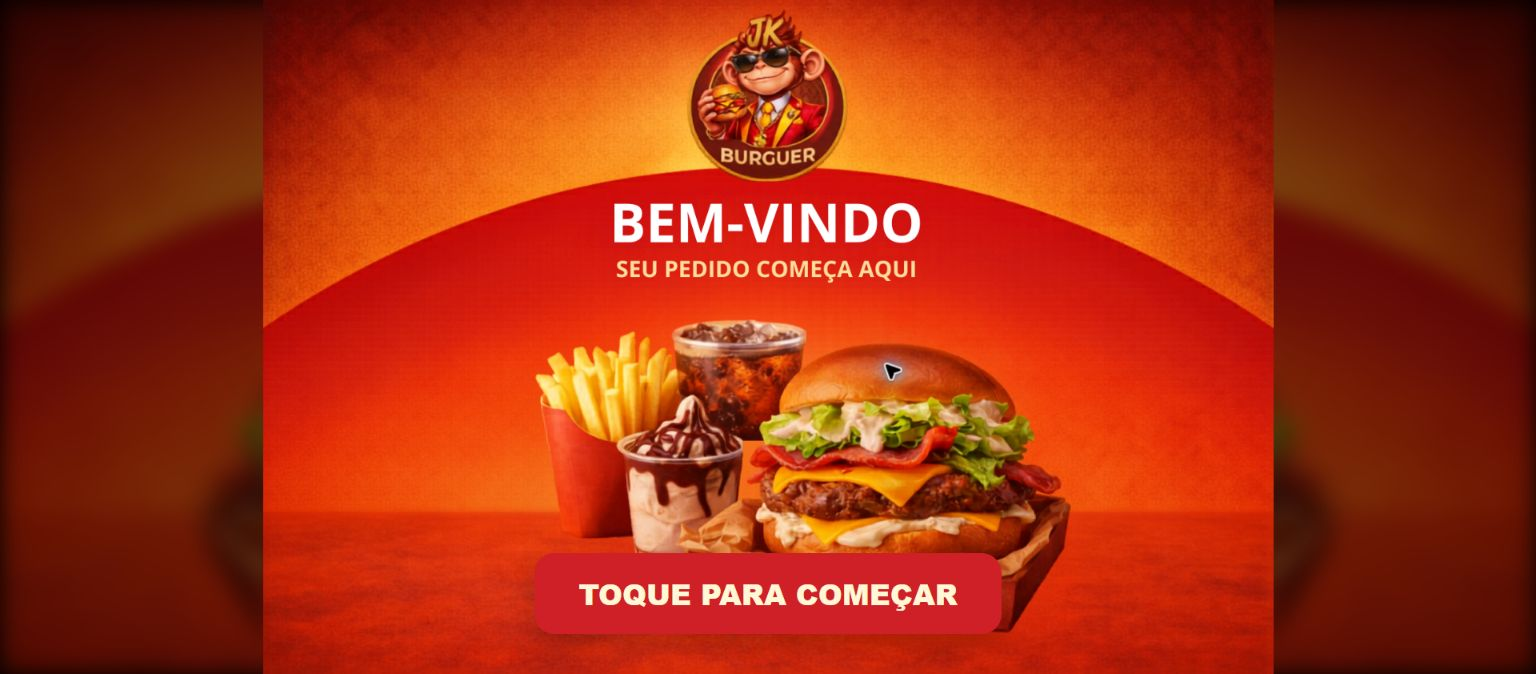
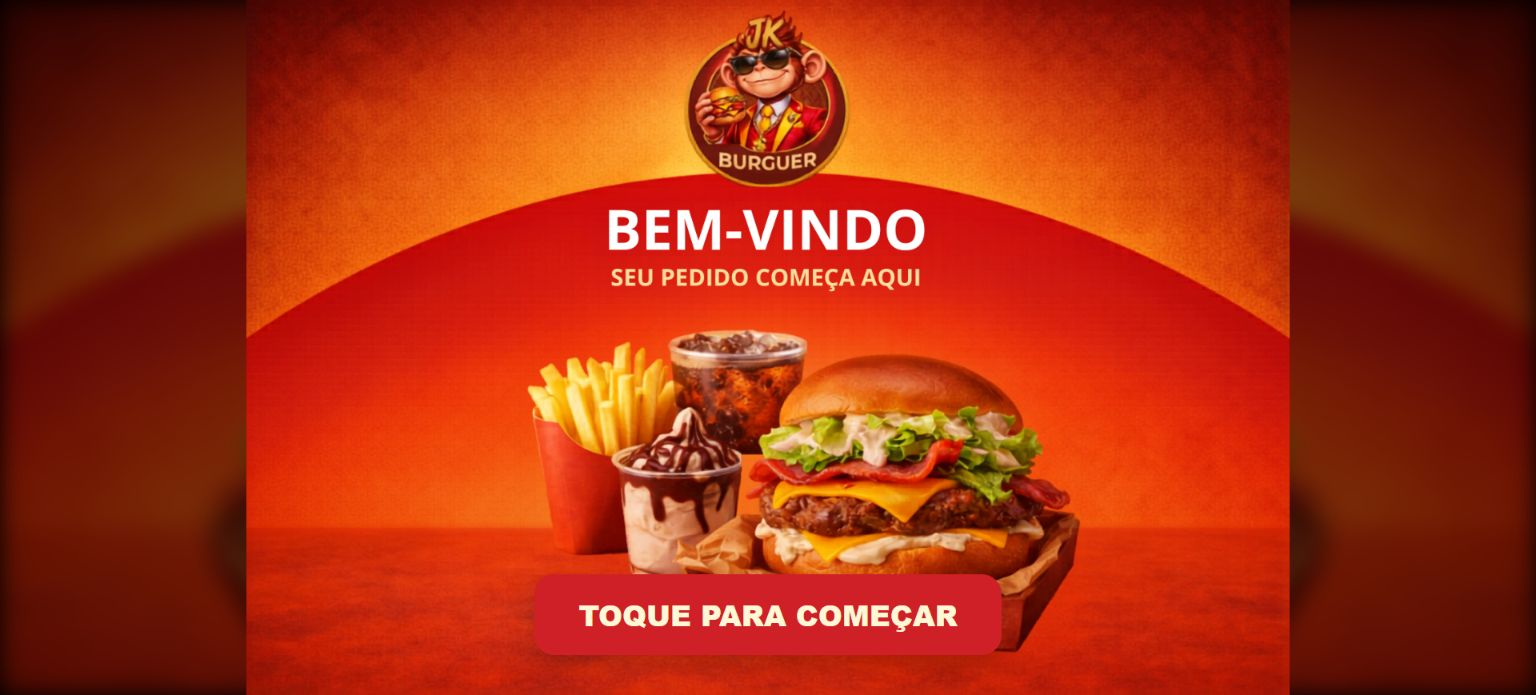
Expand README screenshot gallery

diff --git a/README.md b/README.md
@@ -4,9 +4,19 @@ Totem Fast Food JK Burguer is a self-service fast food kiosk system developed as
 
 The project was designed to simulate a real ordering experience, allowing customers to browse products, assemble orders, choose payment methods, and interact with a loyalty flow based on CPF.
 
-## Screenshot
+## Screenshots
 
-![Totem Fast Food welcome screen](docs/assets/screenshots/home.png)
+| Boas-vindas | CPF |
+| --- | --- |
+| ![Totem Fast Food welcome screen](docs/assets/screenshots/home.png) | ![Totem Fast Food CPF screen](docs/assets/screenshots/cpf.png) |
+
+| Tipo de pedido | Menu |
+| --- | --- |
+| ![Totem Fast Food order type screen](docs/assets/screenshots/tipo-pedido.png) | ![Totem Fast Food menu screen](docs/assets/screenshots/menu.png) |
+
+| Carrinho |
+| --- |
+| ![Totem Fast Food cart screen](docs/assets/screenshots/carrinho.png) |
 
 ## Overview
 
